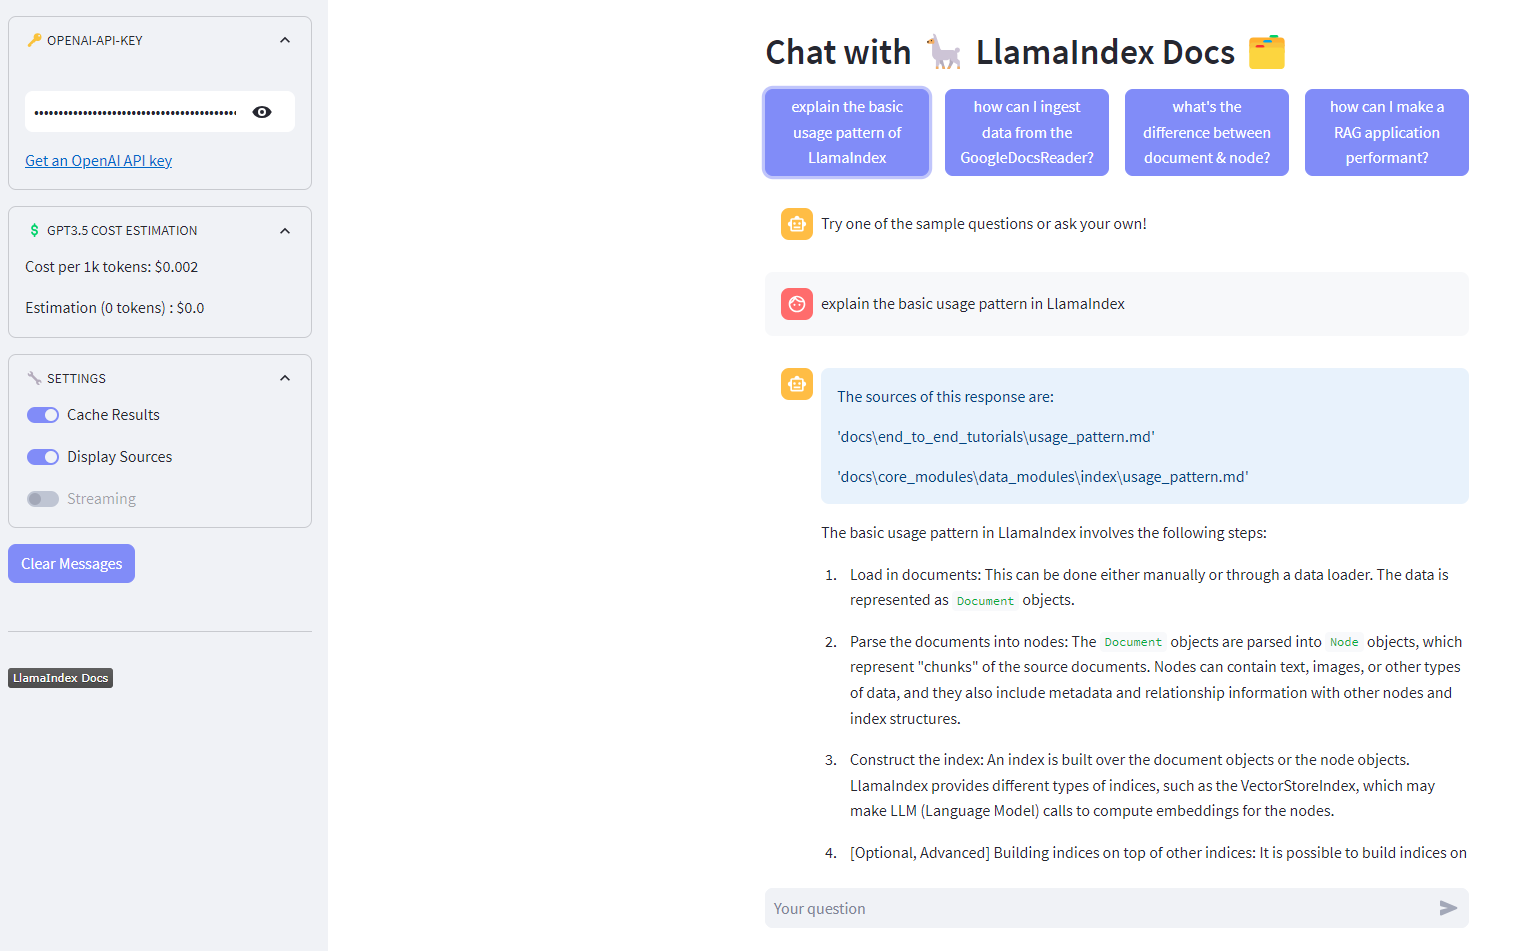
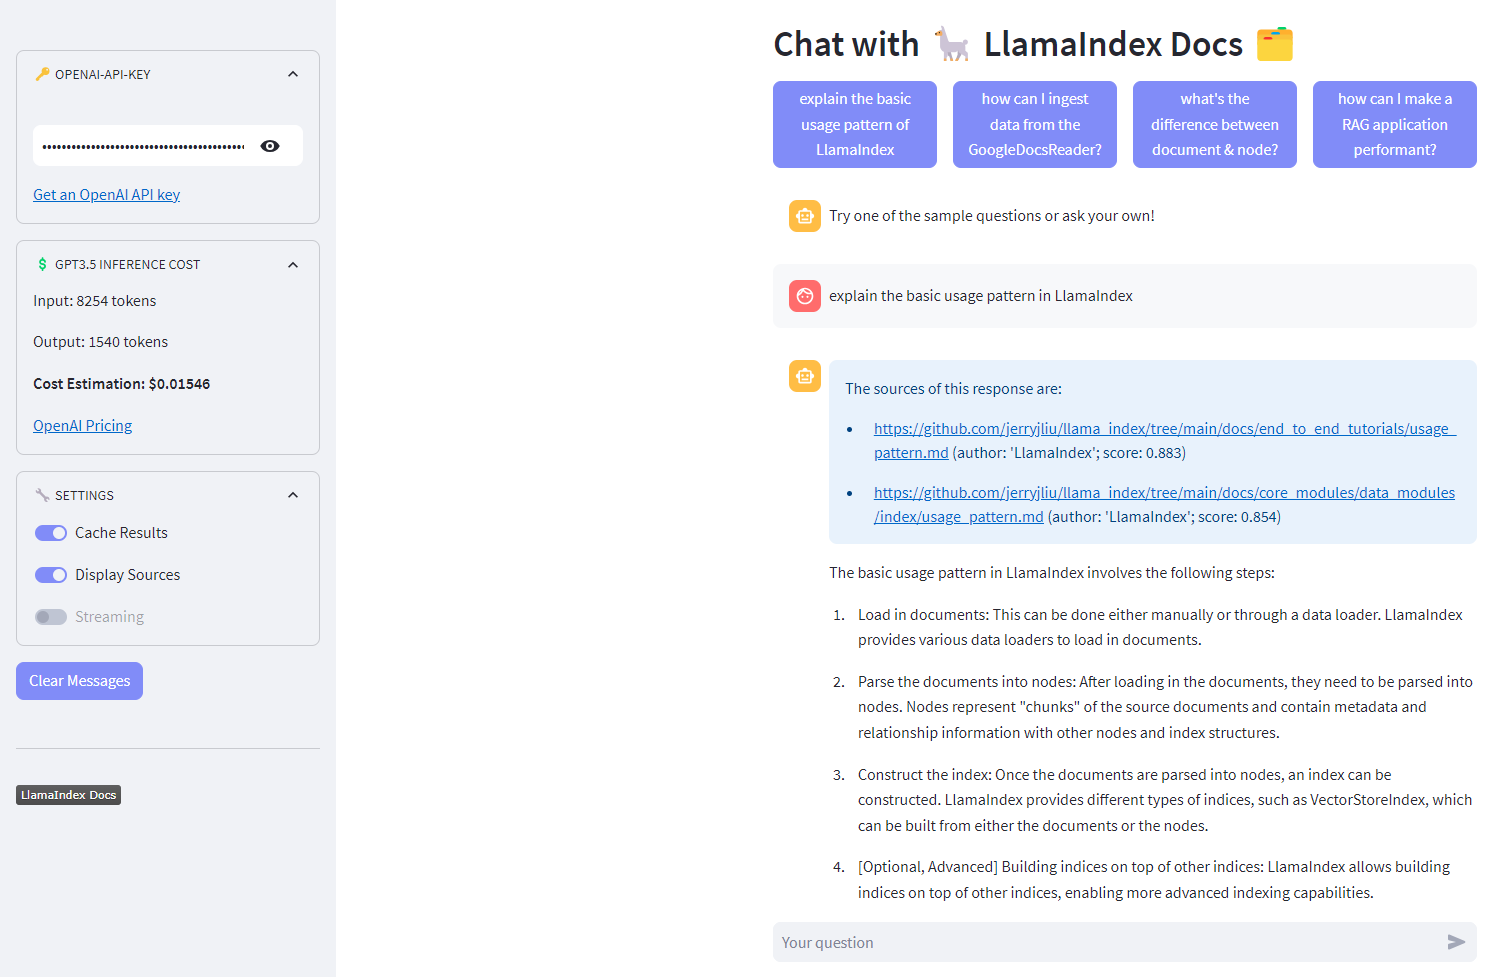
update doc

diff --git a/README.md b/README.md
@@ -9,7 +9,12 @@
   <img src="./assets/llamaindexchat.png">
 </p>
 
-Chatbot App using [LlamaIndex](https://www.llamaindex.ai/) to augment OpenAI GPT-3.5 with the [LlamaIndex Documentation](https://gpt-index.readthedocs.io/en/latest/index.html). Works with Streamlit >= 1.26. 
+Chatbot using [LlamaIndex](https://www.llamaindex.ai/) to supplement the OpenAI GPT-3.5 Large Language Model (LLM) with the [LlamaIndex Documentation](https://gpt-index.readthedocs.io/en/latest/index.html). Main features:
+
+- **Transparency and Evaluation**: by customizing the metadata field of documents (and nodes), the App is able to provide links to the sources of the responses, along with author and relevance score of each source node. This ensures the answers can be cross-referenced with the original content to check for accuracy.
+- **Estimating Inference Costs**: tracks the number of token outputs to help keep inference costs under control.
+- **Reducing Costs**: persists storage including embedding vectors, and caches results to reduce the number of calls to the LLM.
+- **Usability**: includes suggestions for questions, and basic functionality to clear chat history.
 
 ## 🦙 What's LlamaIndex?
 
@@ -17,7 +22,7 @@ Chatbot App using [LlamaIndex](https://www.llamaindex.ai/) to augment OpenAI GPT
 
 ## 📋 How does it work?
 
-LlamaIndex enriches Large Language Models (GPT-3.5 in our case) with a custom knowledge base through a process called [Retrieval Augmented Generation (RAG)](https://research.ibm.com/blog/retrieval-augmented-generation-RAG):
+LlamaIndex enriches LLMs (for simplicity, we default the [ServiceContext](https://gpt-index.readthedocs.io/en/latest/core_modules/supporting_modules/service_context.html) to OpenAI GPT-3.5 which is then used for indexing and querying) with a custom knowledge base through a process called [Retrieval Augmented Generation (RAG)](https://research.ibm.com/blog/retrieval-augmented-generation-RAG) that involves the following steps:
 
 - **Connect to a External Datasource**: We use the [Github Repository Loader](https://llamahub.ai/l/github_repo) available at [LlamaHub](https://llamahub.ai/) (an open-source repository for data loaders) to connect to the Github repository containing the markdown files of the LlamaIndex Docs.
 
@@ -33,7 +38,7 @@ def initialize_github_loader(github_token: str) -> GithubRepositoryReader:
     return loader
 ```
 
-- **Construct Documents**: The markdown files are ingested and automatically converted to Document objects. In addition, we add the dictionary {'filename': '', 'author': ''} to the metadata of each document (which will be inhereited by the nodes). This will allow us to retrieve and display the data sources and scores in the chatbot responses to make our App more transparent:
+- **Construct Documents**: The markdown files of the Github repository are ingested and automatically converted to Document objects. In addition, we add the dictionary {'filename': '', 'author': ''} to the metadata of each document (which will be inhereited by the nodes). This will allow us to retrieve and display the data sources and scores in the chatbot responses to make our App more transparent:
 
 ```python
 def load_and_index_data(loader: GithubRepositoryReader) -> :
@@ -43,11 +48,9 @@ def load_and_index_data(loader: GithubRepositoryReader) -> :
     docs = loader.load_data(branch="main")
     for doc in docs:
         doc.metadata = {'filename': doc.extra_info['file_name'], 'author': "LlamaIndex"}
-        
-    return docs
 ```
 
-- **Parse Nodes**: Nodes represent a *chunk* of a source Document, we have define a chunk size of '1024' with an overlap of '32'. Similar to Documents, Nodes contain metadata and relationship information with other nodes.
+- **Parse Nodes**: Nodes represent a *chunk* of a source Document, we have defined a chunk size of '1024' with an overlap of '32'. Similar to Documents, Nodes contain metadata and relationship information with other nodes.
 ```python
     [...]
 
@@ -56,7 +59,7 @@ def load_and_index_data(loader: GithubRepositoryReader) -> :
     nodes = parser.get_nodes_from_documents(docs)
 ```
 
-- **Indexing**: An Index is a data structure that allows us to quickly retrieve relevant context for a user query. For LlamaIndex, it's the core foundation for retrieval-augmented generation (RAG) use-cases. LlamaIndex provides different types of indices, such as the [VectorStoreIndex](https://gpt-index.readthedocs.io/en/latest/core_modules/data_modules/index/index_guide.html), which make LLM (Language Model) calls to compute embeddings for each Node:
+- **Indexing**: An Index is a data structure that allows to quickly retrieve relevant context for a user query. For LlamaIndex, it's the core foundation for retrieval-augmented generation (RAG) use-cases. LlamaIndex provides different types of indices, such as the [VectorStoreIndex](https://gpt-index.readthedocs.io/en/latest/core_modules/data_modules/index/index_guide.html), which makes LLM (while we default to OpenAI GPT-3.5, you might want to customize this part with a [ServiceContext](https://gpt-index.readthedocs.io/en/latest/core_modules/supporting_modules/service_context.html)) calls to compute embeddings for each Node:
 
 ```python
     [...]
@@ -72,7 +75,7 @@ def load_and_index_data(loader: GithubRepositoryReader) -> :
     return index
 ```
 
-- **Querying (with cache)**: Once the index is constructed, querying a vector store index involves fetching the top-k most similar Nodes (by default 2), and passing those into the Response Synthesis module. We rely on the [Streamlit caching mechanism](https://docs.streamlit.io/library/advanced-features/caching) to optimize the performance.
+- **Querying (with cache)**: Once the index is constructed, querying a vector store index involves fetching the top-k most similar Nodes (by default 2), and passing those into the Response Synthesis module, which appends this knowledge to the user's prompt and passes it to the LLM. We rely on the [Streamlit caching mechanism](https://docs.streamlit.io/library/advanced-features/caching) to optimize the performance and reduce the number of calls to the LLM:
 
 ```python
 @st.cache_data(max_entries=1024, show_spinner=False)
@@ -80,10 +83,10 @@ def query_chatengine_cache(prompt, _chat_engine, settings):
     return _chat_engine.chat(prompt)
 ```
 
-- **Parsing Response**: After querying the index, the app parses the response source nodes to extract the filename, author and score of the top-k similar Nodes (from which the answer was retrieved):
+- **Parsing Response**: The App parses the response source nodes to extract the filename, author and score of the top-k similar Nodes (from which the answer was retrieved):
 
 ```python
-def parse(response):
+def get_metadata(response):
     sources = []
     for item in response.source_nodes:
         if hasattr(item, "metadata"):
@@ -102,12 +105,18 @@ def parse(response):
 </p>
 
 
-- **Estimating Inference Cost**: By updating the [Session State](https://docs.streamlit.io/library/api-reference/session-state) variable 'token_counter' after each response, the app tracks the number of token outputs and estimates the overall [GTP-3.5 costs](https://openai.com/pricing). 
+- **Estimating Inference Cost**: By updating the [Session State](https://docs.streamlit.io/library/api-reference/session-state) variable 'token_counter' after each response, the App tracks the number of token outputs and estimates the overall [GTP-3.5 costs](https://openai.com/pricing). 
 
 ```python
-def update_token_counter(response):
-    # 1,000 tokens is about 750 words
-    st.session_state['token_counter'] += round( 0.75 * len(response) )
+def update_token_counters(response):
+    """Update token counters (1,000 tokens is about 750 words)"""
+
+    # update input token counter
+    for item in response.source_nodes:
+        st.session_state['input_token_counter'] += round( 0.75 * len(item.text) )
+
+    # update output token counter
+    st.session_state['output_token_counter'] += round( 0.75 * len(response.response) )
 ```
 
 
